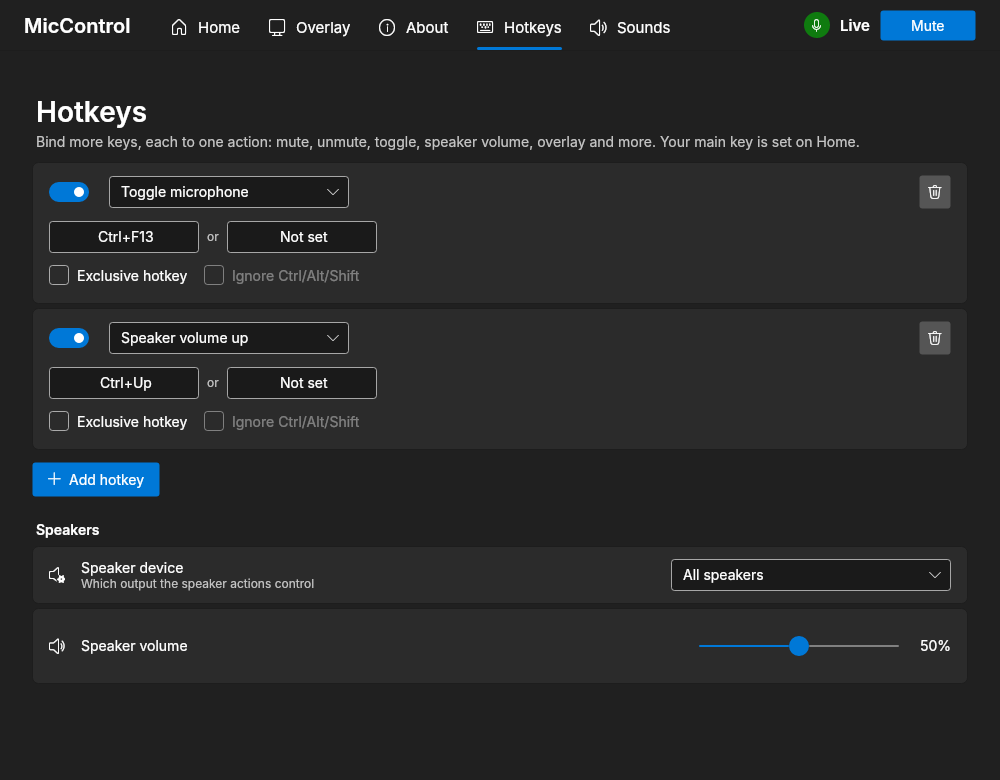
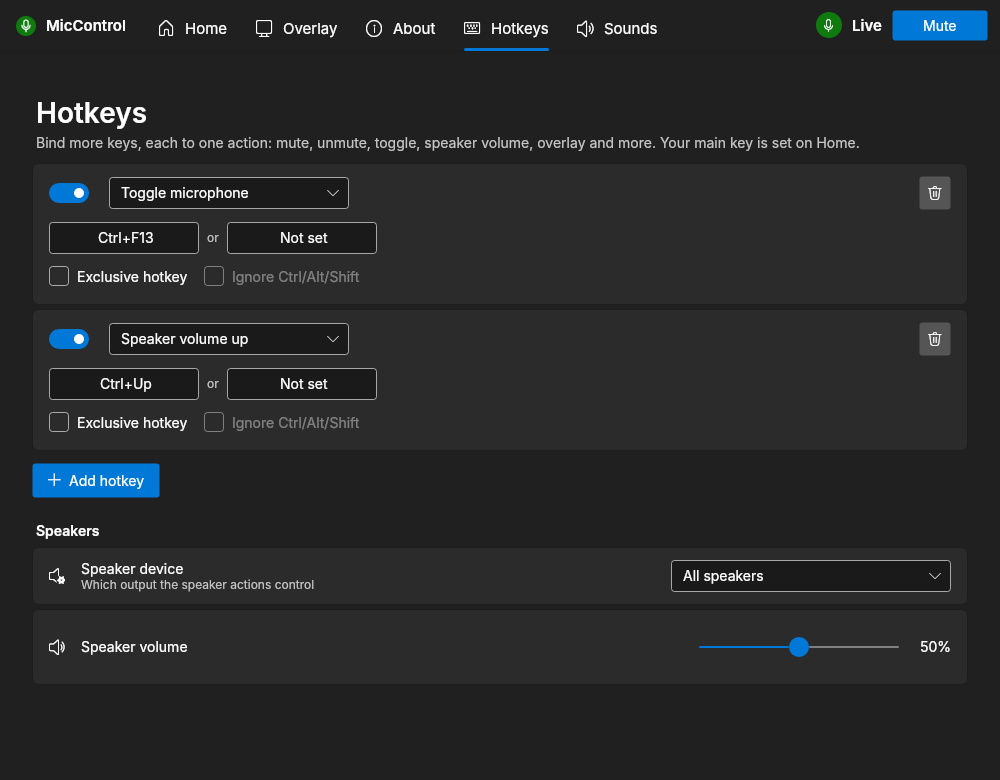
Draw the header in the title bar, like a browser
- No separate system title bar: the header (icon, name, tabs, mic state) takes its place, so MicControl's name shows once
- Minimize, maximize/restore and close stay as the system's own buttons (snap layouts included); empty header space drags the window
- Setup gets its own drag strip, since it covers the header

diff --git a/Sources/MicControl.Tests/Ui/MainWindowTests.cs b/Sources/MicControl.Tests/Ui/MainWindowTests.cs
@@ -185,4 +185,19 @@ public sealed class MainWindowTests
         window.GetVisualDescendants().OfType<ToggleSwitch>().Single(t => Avalonia.Automation.AutomationProperties.GetName(t) == "Custom hotkeys").IsChecked = true;
         Assert.Contains(harness.ViewModel.NavItems, n => n.Page == ViewModels.Page.Hotkeys && n.Title == "Hotkeys");
     }
+
+    [AvaloniaFact]
+    public void Header_ReplacesTheTitleBar_AndKeepsItsControlsClickable()
+    {
+        using var harness = new TestHarness();
+        var window = new MainWindow(harness.ViewModel, harness.Settings);
+        window.Show();
+
+        Assert.True(window.ExtendClientAreaToDecorationsHint);
+        var tabs = window.GetVisualDescendants().OfType<ListBox>().Single(l => l.Classes.Contains("tabs"));
+        Assert.Equal(Avalonia.Input.WindowDecorationsElementRole.User, Avalonia.Controls.Chrome.WindowDecorationProperties.GetElementRole(tabs));
+        var header = tabs.GetVisualAncestors().OfType<Border>()
+            .First(b => Avalonia.Controls.Chrome.WindowDecorationProperties.GetElementRole(b) == Avalonia.Input.WindowDecorationsElementRole.TitleBar);
+        Assert.Equal(window.ExtendClientAreaTitleBarHeightHint, header.Height);
+    }
 }

diff --git a/CLAUDE.md b/CLAUDE.md
@@ -45,7 +45,7 @@ System-wide microphone mute/unmute with hotkeys, an always-on-top overlay, sound
 | Project | Contents | Rules |
 | --- | --- | --- |
 | `MicControl.Core` (net10.0) | Settings model and JSON store (`Settings/`), MicSwitch 1.x config import, `HotkeyGesture` text format, `MuteRules`, `NotificationSounds`, update feed parsing (`Updates/ReleaseFeed`), setup command line and install layout (`Installation/`), platform contracts (`Platform/PlatformServices.cs`) | No UI or OS dependencies |
-| `MicControl.UI` (net10.0) | Avalonia UI: `Views/MainWindow` (a header with the app name, page tabs (`ListBox.tabs`) and, away from Home, the mic state with Mute/Unmute), tray `Views/TrayIcon` + `Views/TrayPopupWindow`, pages in `Views/Pages/` (Home, Overlay, About, then the optional Hotkeys and Sounds, and first-run Setup), `OverlayWindow` + `Controls/OverlayBadge`, `TrayIcon` (right-click menu), one `MainViewModel` split into partial files per page, theme in `Themes/`, composition in `App.axaml.cs` | Talk to the OS only through the `MicControl.Platform` interfaces |
+| `MicControl.UI` (net10.0) | Avalonia UI: `Views/MainWindow` (no system title bar: `ExtendClientAreaToDecorationsHint` puts our 52 px header in its place, like a browser, with the icon and name, page tabs (`ListBox.tabs`), away from Home the mic state with Mute/Unmute, and room for the system's minimize/maximize/close buttons; the header's background has `WindowDecorationProperties.ElementRole=TitleBar` so it drags, and its tabs and buttons `User` so they get clicks; setup has its own drag strip), tray `Views/TrayIcon` + `Views/TrayPopupWindow`, pages in `Views/Pages/` (Home, Overlay, About, then the optional Hotkeys and Sounds, and first-run Setup), `OverlayWindow` + `Controls/OverlayBadge`, `TrayIcon` (right-click menu), one `MainViewModel` split into partial files per page, theme in `Themes/`, composition in `App.axaml.cs` | Talk to the OS only through the `MicControl.Platform` interfaces |
 | `MicControl.Windows` | Core Audio via NAudio, low-level keyboard/mouse hooks (`GlobalHotkeyService`, `VirtualKeys`), WASAPI playback, autostart (Run key or scheduled task), overlay click-through, `WindowsInstaller` | Windows-only code goes here |
 | `MicControl` | Windows exe (`MicControl.exe`, also the setup): `Program.cs` (app or setup mode, single instance, show/exit signals, DI registration of Windows services), `UpdateService` (GitHub Releases), `app.manifest` | |
 | `MicControl.Tests` | xUnit v3: core tests plus headless Avalonia UI tests (`Ui/`, with fakes in `Ui/Fakes.cs`) | |
